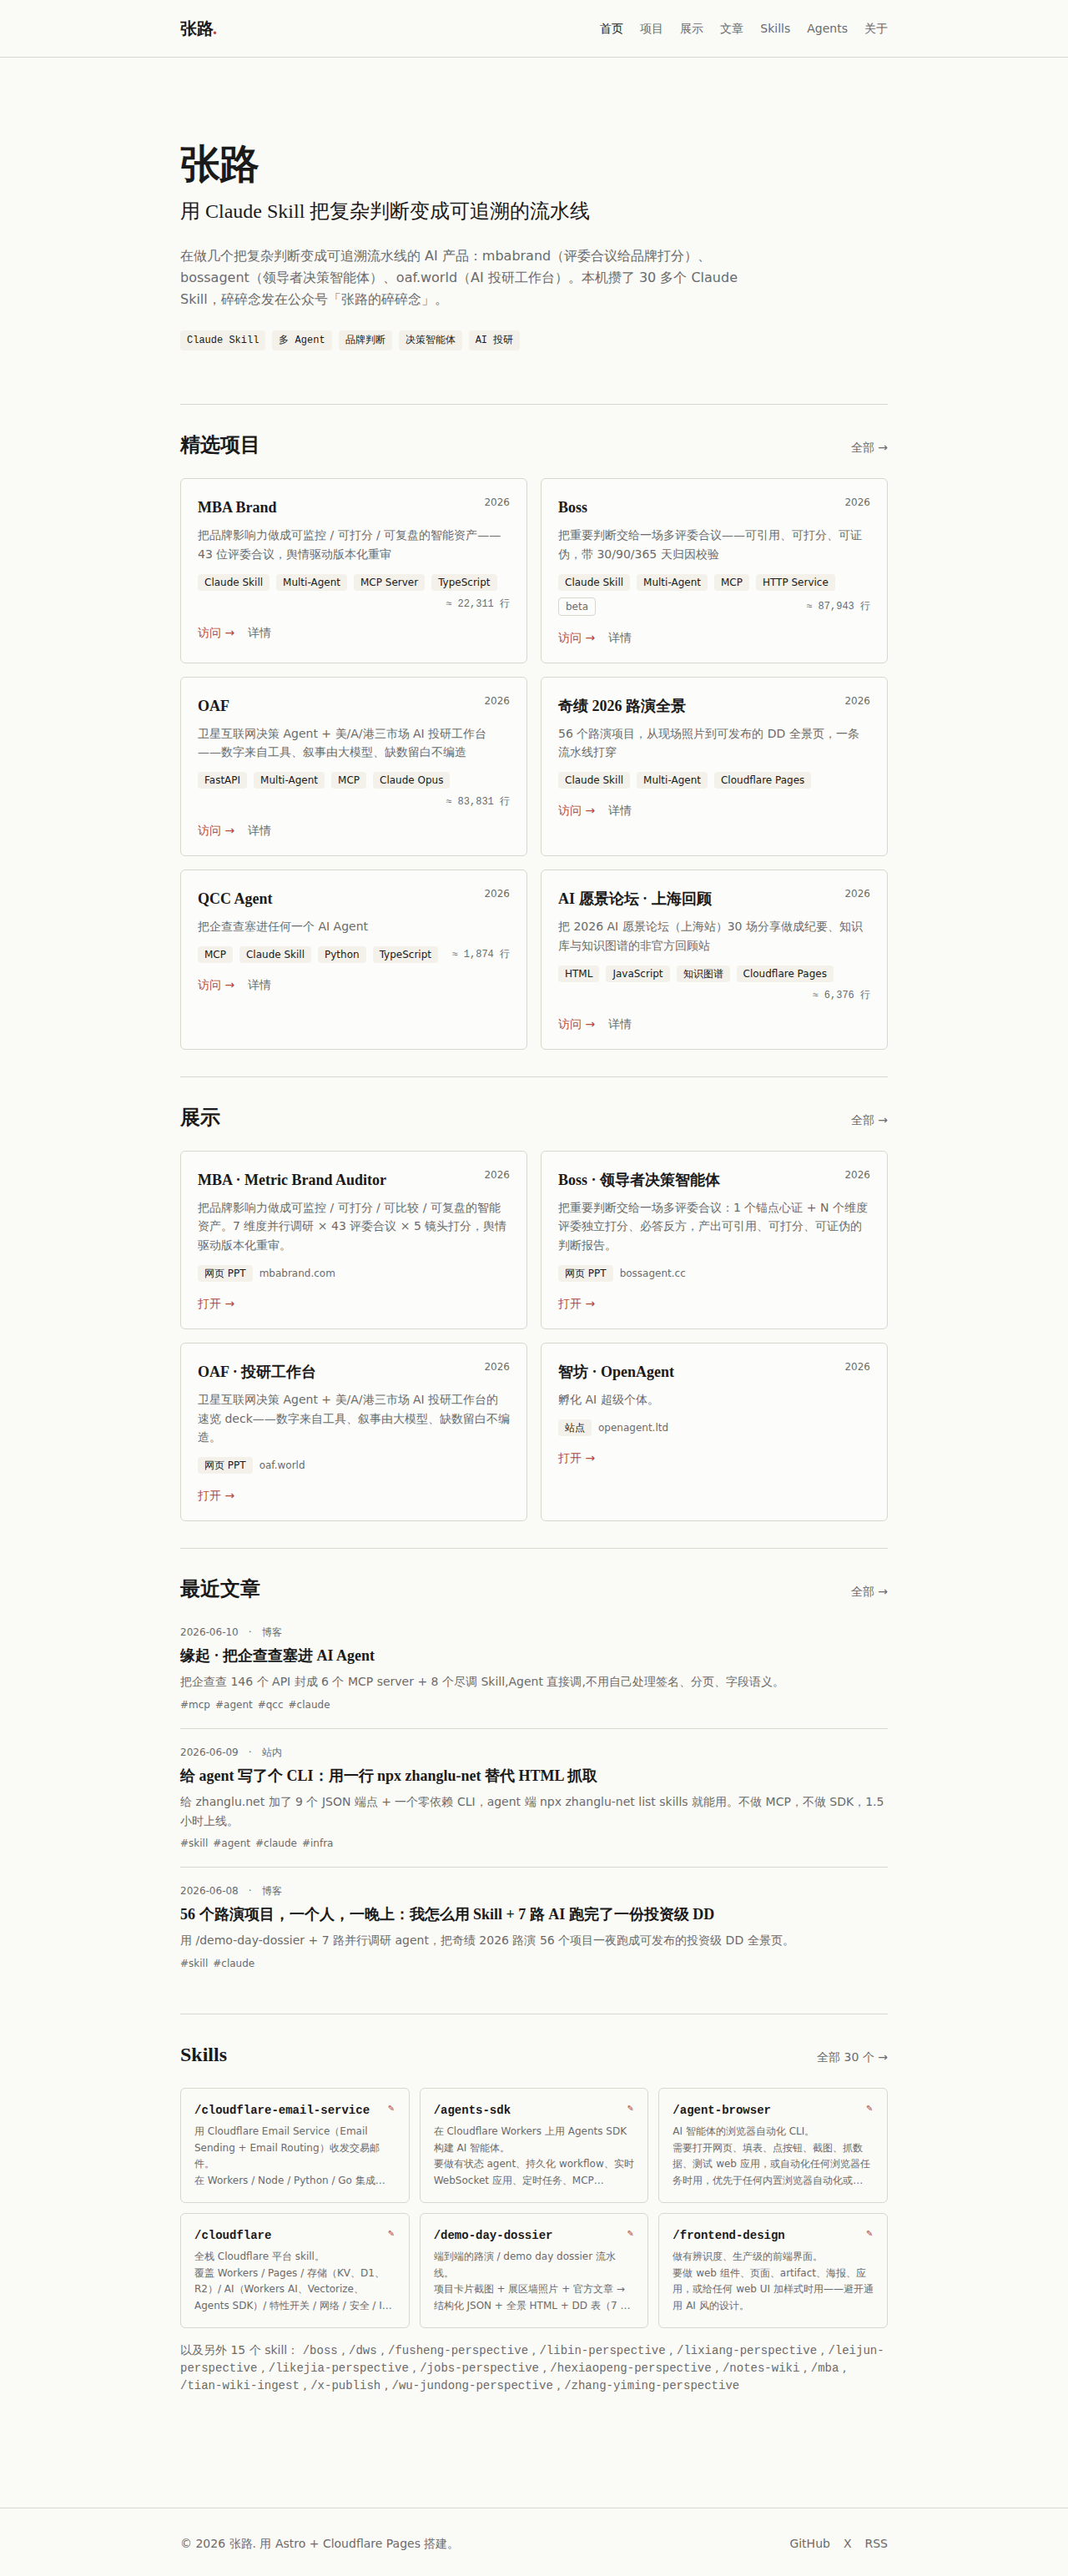
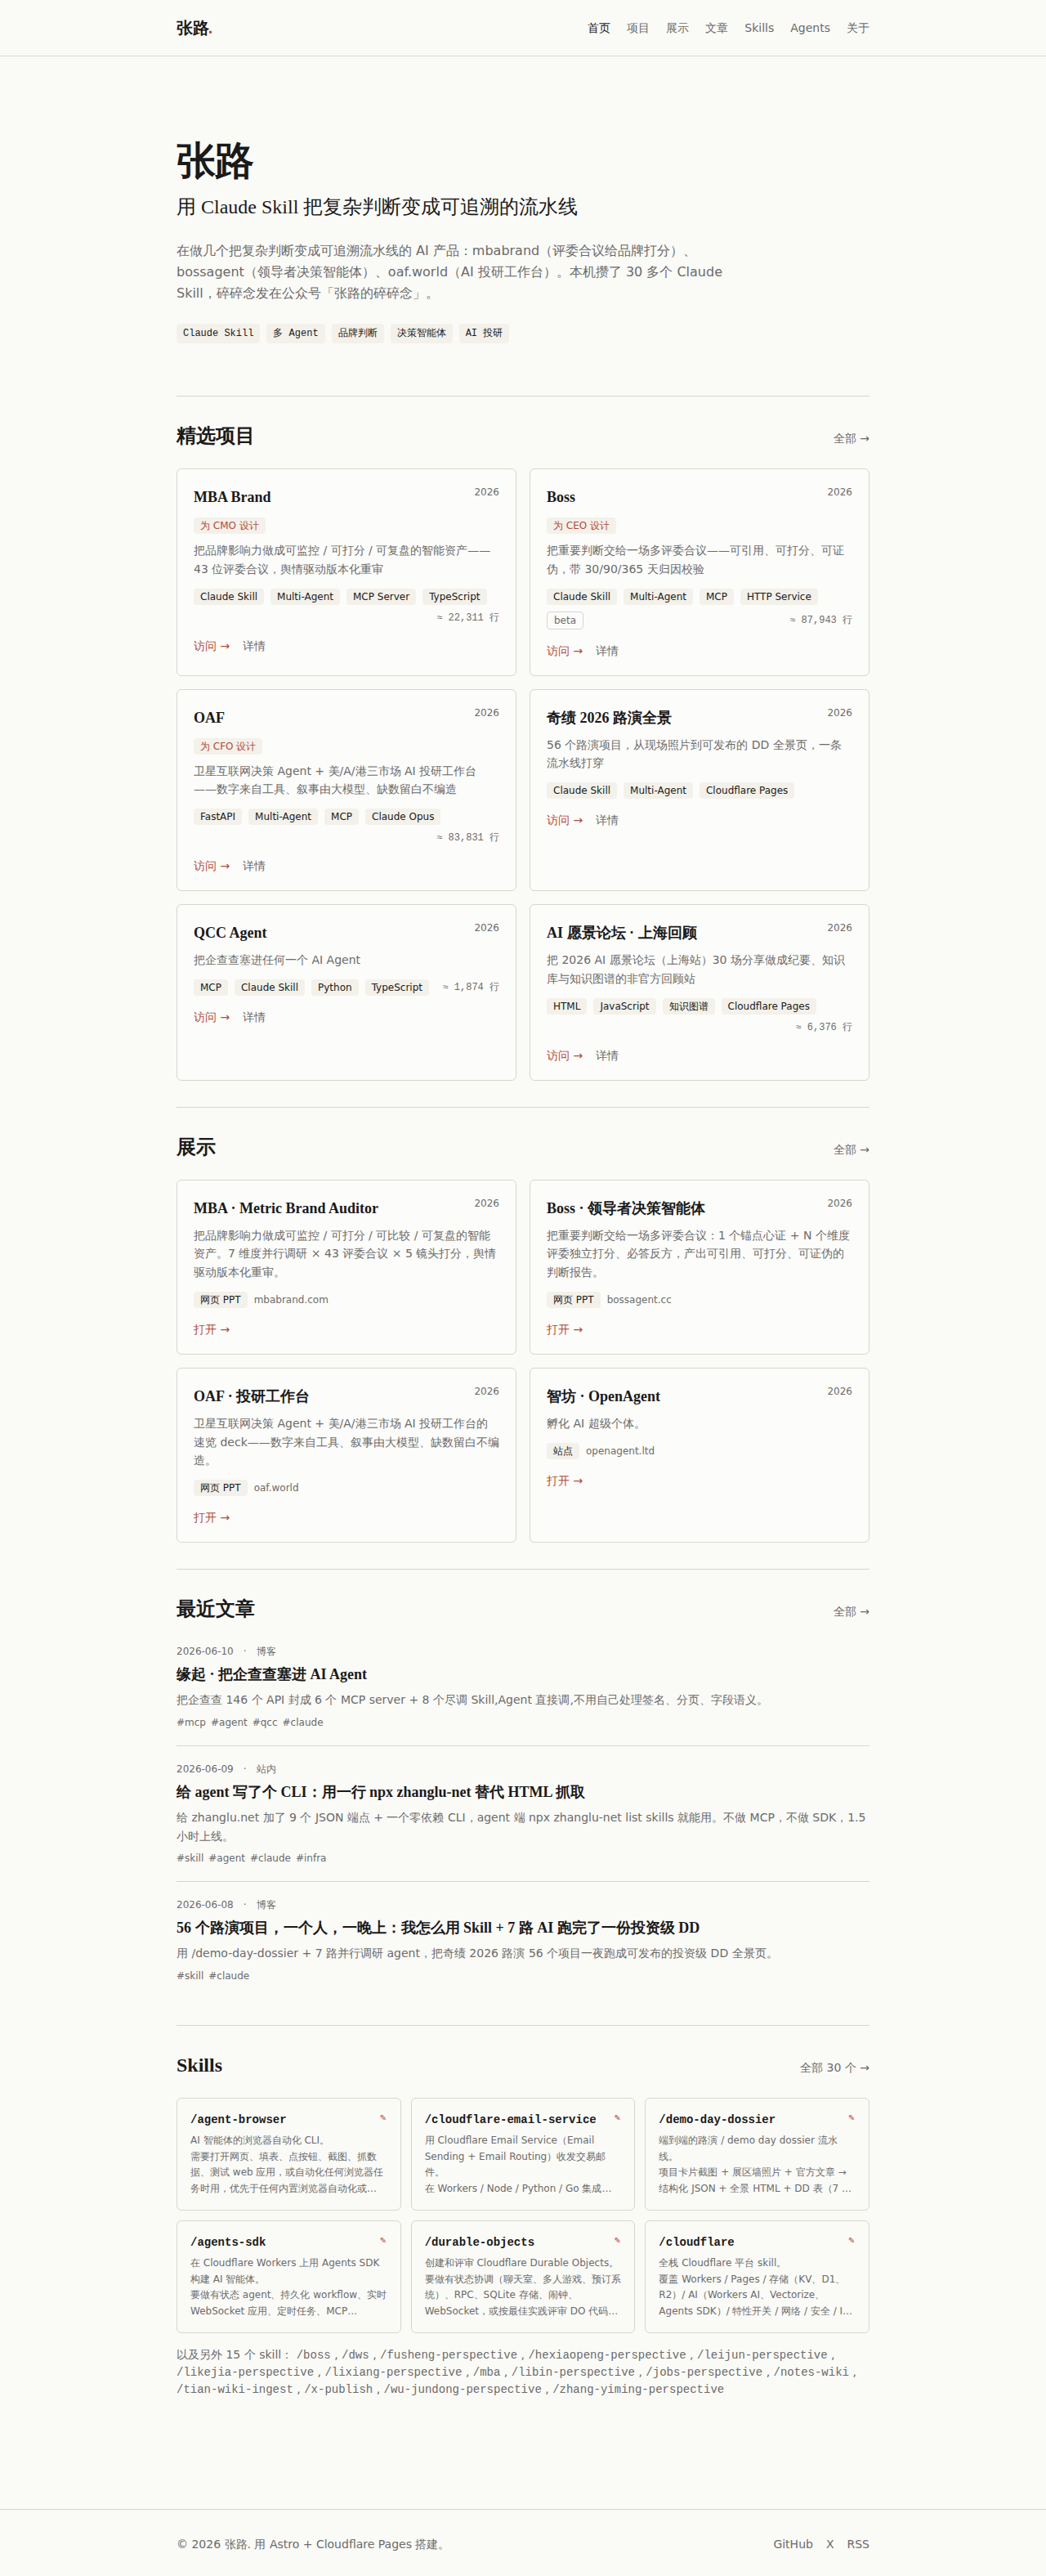
add: 项目人群标注 persona (Boss→CEO / MBA Brand→CMO / OAF→CFO)
- projects schema 加可选 persona 字段; 卡片(标题下)和详情页(meta 行)
  显示朱砂色徽章「为 X 设计」; /api/projects.json 带上 persona
- boss=CEO / mbabrand=CMO / oaf=CFO; 其余项目不标
- 重截 home/projects 截图反映新徽章; AGENTS.md §4 schema 补 persona 说明

本地 pnpm build 通过 (45 页)。

Claude-Session: https://claude.ai/code/session_01BAERccaYgUERQ85kz4Jrz9

diff --git a/src/content/config.ts b/src/content/config.ts
@@ -14,6 +14,7 @@ const projects = defineCollection({
     status: z.enum(['live', 'beta', 'archived', 'wip']).default('live'),
     order: z.number().default(0),
     loc: z.number().optional(),
+    persona: z.string().optional(),
   }),
 });
 

diff --git a/src/pages/api/projects.json.ts b/src/pages/api/projects.json.ts
@@ -19,6 +19,7 @@ export const GET: APIRoute = async ({ site }) => {
       status: p.data.status,
       order: p.data.order,
       loc: p.data.loc ?? null,
+      persona: p.data.persona ?? null,
       permalink: `${base}/projects/${p.slug}`,
       body_url: `${base}/api/projects/${p.slug}.json`,
     }));

diff --git a/AGENTS.md b/AGENTS.md
@@ -123,6 +123,7 @@ featured: boolean = false   # true 才上首页"精选项目"
 status: 'live' | 'beta' | 'wip' | 'archived' = 'live'
 order: number = 0           # 数字越小越靠前
 loc?: number                # 源码行数 (可选), cloc 统计, 排除文档/数据/生成物; 卡片和详情页显示 "≈ N 行代码"
+persona?: string            # 目标人群 (可选), 如 CEO / CMO / CFO; 卡片和详情页显示朱砂色徽章 "为 X 设计"
 ---
 正文 markdown (## 是什么 / ## 为什么做 / ## 你能怎么用)
 ```

diff --git a/src/content/projects/boss.md b/src/content/projects/boss.md
@@ -8,6 +8,7 @@ featured: true
 status: beta
 order: 2
 loc: 87943
+persona: CEO
 ---
 
 ## 是什么

diff --git a/src/content/projects/mbabrand.md b/src/content/projects/mbabrand.md
@@ -9,6 +9,7 @@ featured: true
 status: live
 order: 1
 loc: 22311
+persona: CMO
 ---
 
 ## 是什么

diff --git a/src/content/projects/oaf.md b/src/content/projects/oaf.md
@@ -8,6 +8,7 @@ featured: true
 status: live
 order: 3
 loc: 83831
+persona: CFO
 ---
 
 ## 是什么